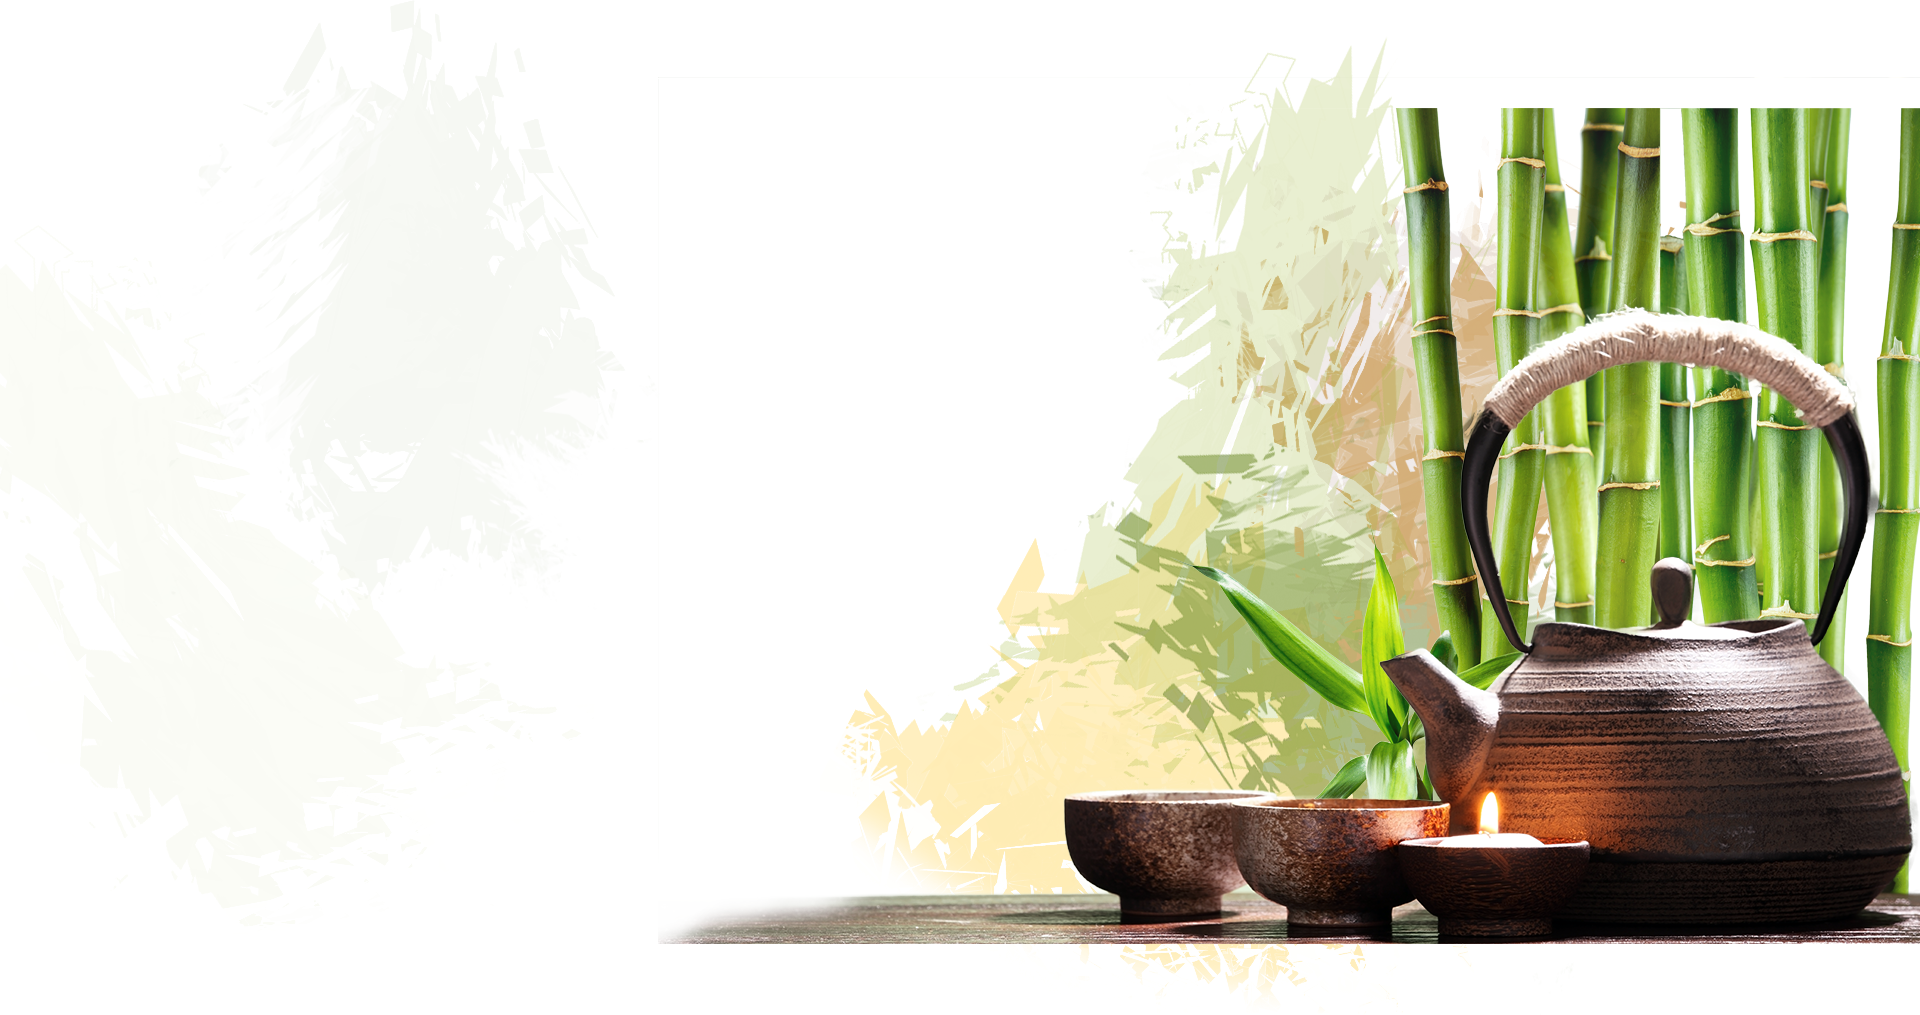
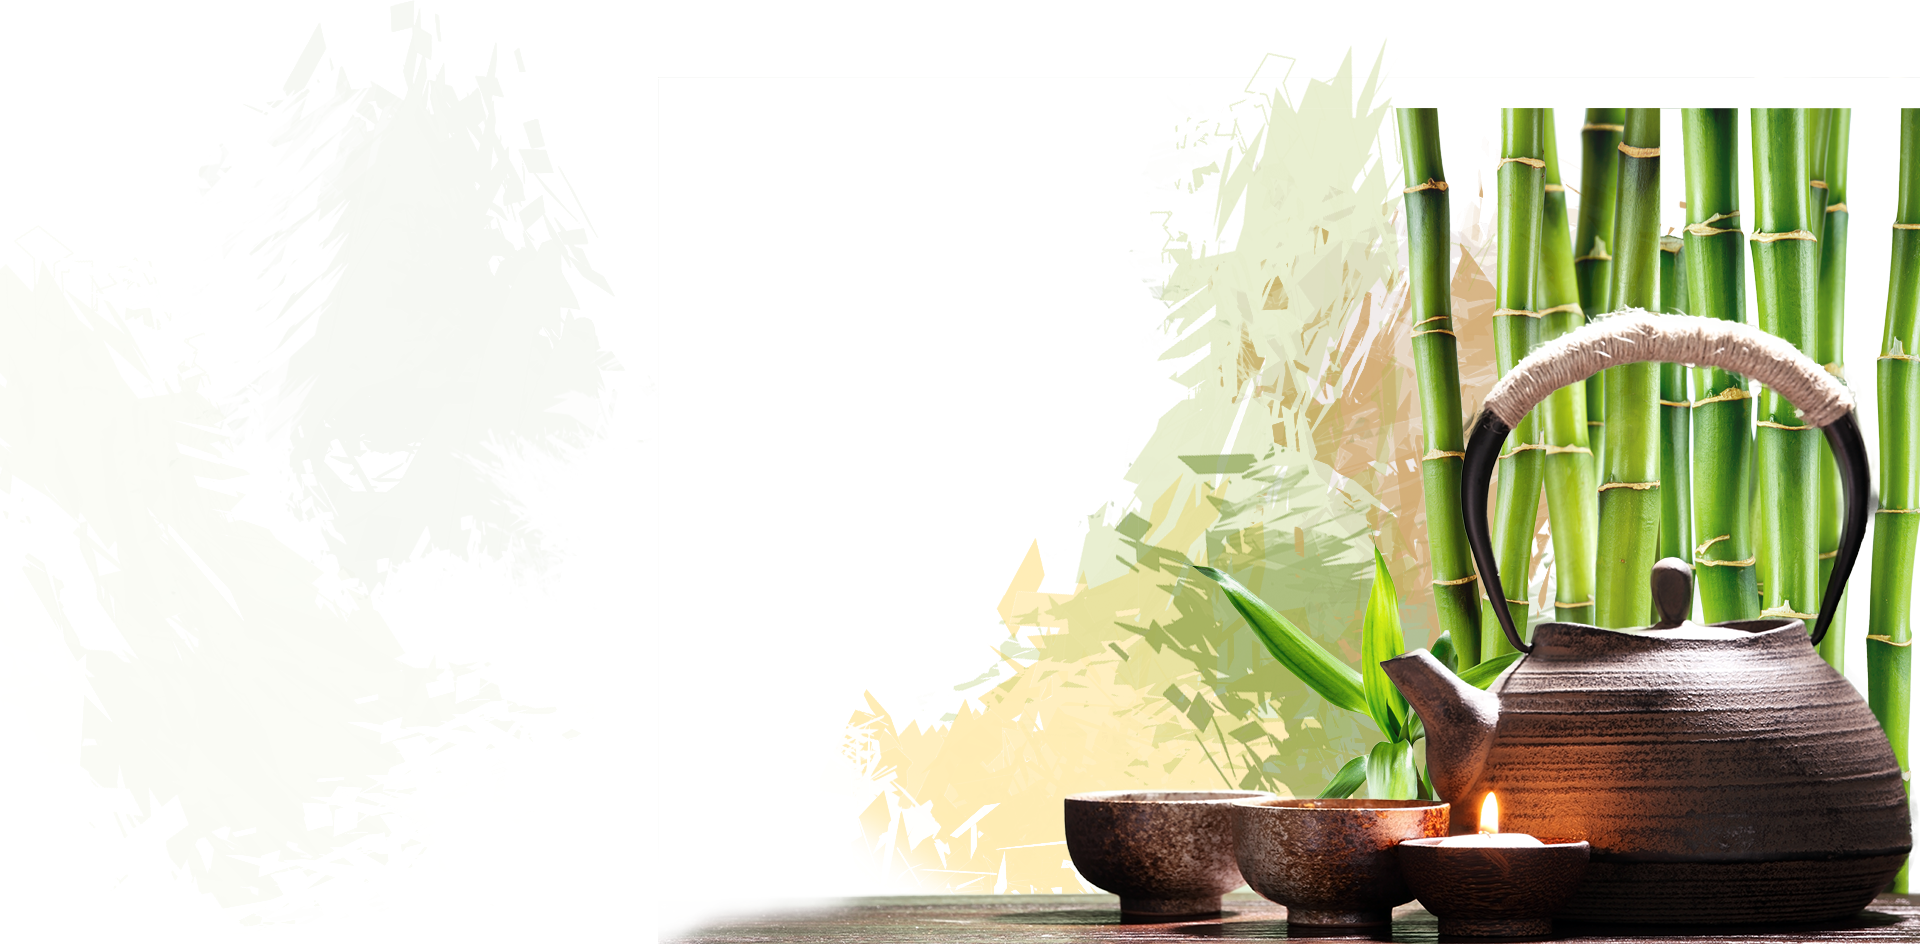
home page partially done

Changed region(s): [[0.3438, 0.0614, 1.0, 1.0]]

diff --git a/css/modern-business.css b/css/modern-business.css
@@ -16,12 +16,12 @@
  */
 
 body {
-    font-size: 16px;
+    font-size: 18px;
     font-weight: normal;
     line-height: 22px;
     background-color: #F5F0E4;
-    font-family: 'Nunito Sans', sans-serif;
-    background-image: url("../images/pattern-chakras-alt-color.png");
+    font-family: 'Amiri', serif;
+    
 }
 
 body, html { 
@@ -53,6 +53,10 @@ h3, h4, h5 {
     /*border-right: 1px solid  #FED973;*/
 }
 
+.ver-spacer {
+    height: 25px
+}
+
 .navbar-nav .nav-item-last {
     border-right: none;
 }
@@ -81,11 +85,18 @@ h3, h4, h5 {
     min-height: 150px;
     position: absolute;
     background-color: #7E834A;
+    background-attachment: fixed;
     background-image: url("../images/bg-pattern-leaf.png");
 }
 
 .bg-inverse {
+    background-attachment: fixed;
     background-image: url("../images/bg-pattern-leaf.png");
+}
+
+.home-top-container {
+    background-image: url("../images/pattern-chakras-alt-color.png");
+    background-attachment: fixed;
 }
 
 .navbar-brand {
@@ -94,16 +105,27 @@ h3, h4, h5 {
 
 .container-divider {
     width: 100%;
-    height: 100px;
+    height: 50px;
+    background-position: left bottom; 
     background-image: url("../images/dt-sc-flowtop-bgimage.png");
 }
 
-.paralex-container {
+.home-page-content-1 {
+    width: 100%;
+    color: #484338;
+    background-size: cover;
+    background-color: #F2E9D3;
+    background-repeat: no-repeat;
+    background-position: left bottom; 
+    background-image: url("../images/parallax-decor.png");
+}
+.home-page-content-1 h2, .home-page-content-2 h2{
+    color: #a58251;
+}
+
+.home-page-content-2 {
     width: 100%;
     background-color: #F2E9D3;
-    background-image: url("../images/parallax-decor.png");
-    background-position: right; 
-    background-repeat: no-repeat;
 }
 
 .aligncenter {

diff --git a/index.php b/index.php
@@ -7,7 +7,7 @@ require("includes/head.php")
     <?php
     require("includes/nav-top.php")
     ?>
-
+<div class="home-top-container">
     <header>
         <div class="carousel-bg"></div>
         <div id="carouselExampleIndicators" class="carousel slide" data-ride="carousel">
@@ -95,12 +95,15 @@ require("includes/head.php")
         <!-- /.row -->
     </div>
     
-
+</div>
     
 
-<div class="paralex-container">
+<div class="home-page-content-1">
     <div class="container-divider">
             
+    </div>
+    <div class="col-lg-6 ver-spacer">
+
     </div>
     <div class="container">
 
@@ -119,18 +122,19 @@ require("includes/head.php")
                 </ul>
                 <p>Lorem ipsum dolor sit amet, consectetur adipisicing elit. Corporis, omnis doloremque non cum id reprehenderit, quisquam totam aspernatur tempora minima unde aliquid ea culpa sunt. Reiciendis quia dolorum ducimus unde.</p>
             </div>
-            <div class="col-lg-6">
-                
-            </div>
         </div>
         <!-- /.row -->
+    <div class="ver-spacer">
 
+    </div>
     </div>
 
 </div>
 
     <div class="container">
+    <div class="ver-spacer">
 
+    </div>
         <!-- Portfolio Section -->
         <h2>Portfolio Heading</h2>
 
@@ -165,7 +169,63 @@ require("includes/head.php")
         </div>
         <!-- /.row -->
         
-        <!-- Call to Action Section -->
+        
+
+    </div>
+    <!-- /.container -->
+
+
+<div class="home-page-content-2">
+    <!-- Page Content Part 2-->
+    <div class="col-lg-6 ver-spacer">
+
+    </div>
+    <div class="container">
+
+        <!-- Features Section -->
+        <div class="row">
+            <div class="col-lg-6">
+                <h2>Modern Business Features</h2>
+                <p>The Modern Business template by Start Bootstrap includes:</p>
+                <ul>
+                    <li><strong>Bootstrap v4</strong>
+                    </li>
+                    <li>jQuery</li>
+                    <li>Font Awesome</li>
+                    <li>Working contact form with validation</li>
+                    <li>Unstyled page elements for easy customization</li>
+                </ul>
+                <p>Lorem ipsum dolor sit amet, consectetur adipisicing elit. Corporis, omnis doloremque non cum id reprehenderit, quisquam totam aspernatur tempora minima unde aliquid ea culpa sunt. Reiciendis quia dolorum ducimus unde.</p>
+            </div>
+
+            <div class="col-lg-6">
+                <h2>Modern Business Features</h2>
+                <p>The Modern Business template by Start Bootstrap includes:</p>
+                <ul>
+                    <li><strong>Bootstrap v4</strong>
+                    </li>
+                    <li>jQuery</li>
+                    <li>Font Awesome</li>
+                    <li>Working contact form with validation</li>
+                    <li>Unstyled page elements for easy customization</li>
+                </ul>
+                <p>Lorem ipsum dolor sit amet, consectetur adipisicing elit. Corporis, omnis doloremque non cum id reprehenderit, quisquam totam aspernatur tempora minima unde aliquid ea culpa sunt. Reiciendis quia dolorum ducimus unde.</p>
+            </div>
+        </div>
+        <!-- /.row -->
+    <div class="ver-spacer">
+
+    </div>
+        <!-- /.row -->
+    </div>
+</div>    
+
+<div>
+    <div class="ver-spacer">
+
+    </div>
+    <div class="container">
+    <!-- Call to Action Section -->
         <div class="row mb-4">
             <div class="col-md-8">
                 <p>Lorem ipsum dolor sit amet, consectetur adipisicing elit. Molestias, expedita, saepe, vero rerum deleniti beatae veniam harum neque nemo praesentium cum alias asperiores commodi.</p>
@@ -174,9 +234,8 @@ require("includes/head.php")
                 <a class="btn btn-lg btn-secondary btn-block" href="#">Call to Action</a>
             </div>
         </div>
-
     </div>
-    <!-- /.container -->
+</div>
     
     <!-- Footer -->
     <?php

diff --git a/includes/head.php b/includes/head.php
@@ -11,7 +11,7 @@
     <title>Modern Business - Start Bootstrap Template</title>
 
     <!-- Font family -->
-    <link href="https://fonts.googleapis.com/css?family=Amita|Redressed|Nunito+Sans" rel="stylesheet">
+    <link href="https://fonts.googleapis.com/css?family=Amiri|Amita|Redressed" rel="stylesheet">
 
     <!-- Bootstrap core CSS -->
     <link href="vendor/bootstrap/css/bootstrap.css" rel="stylesheet">
